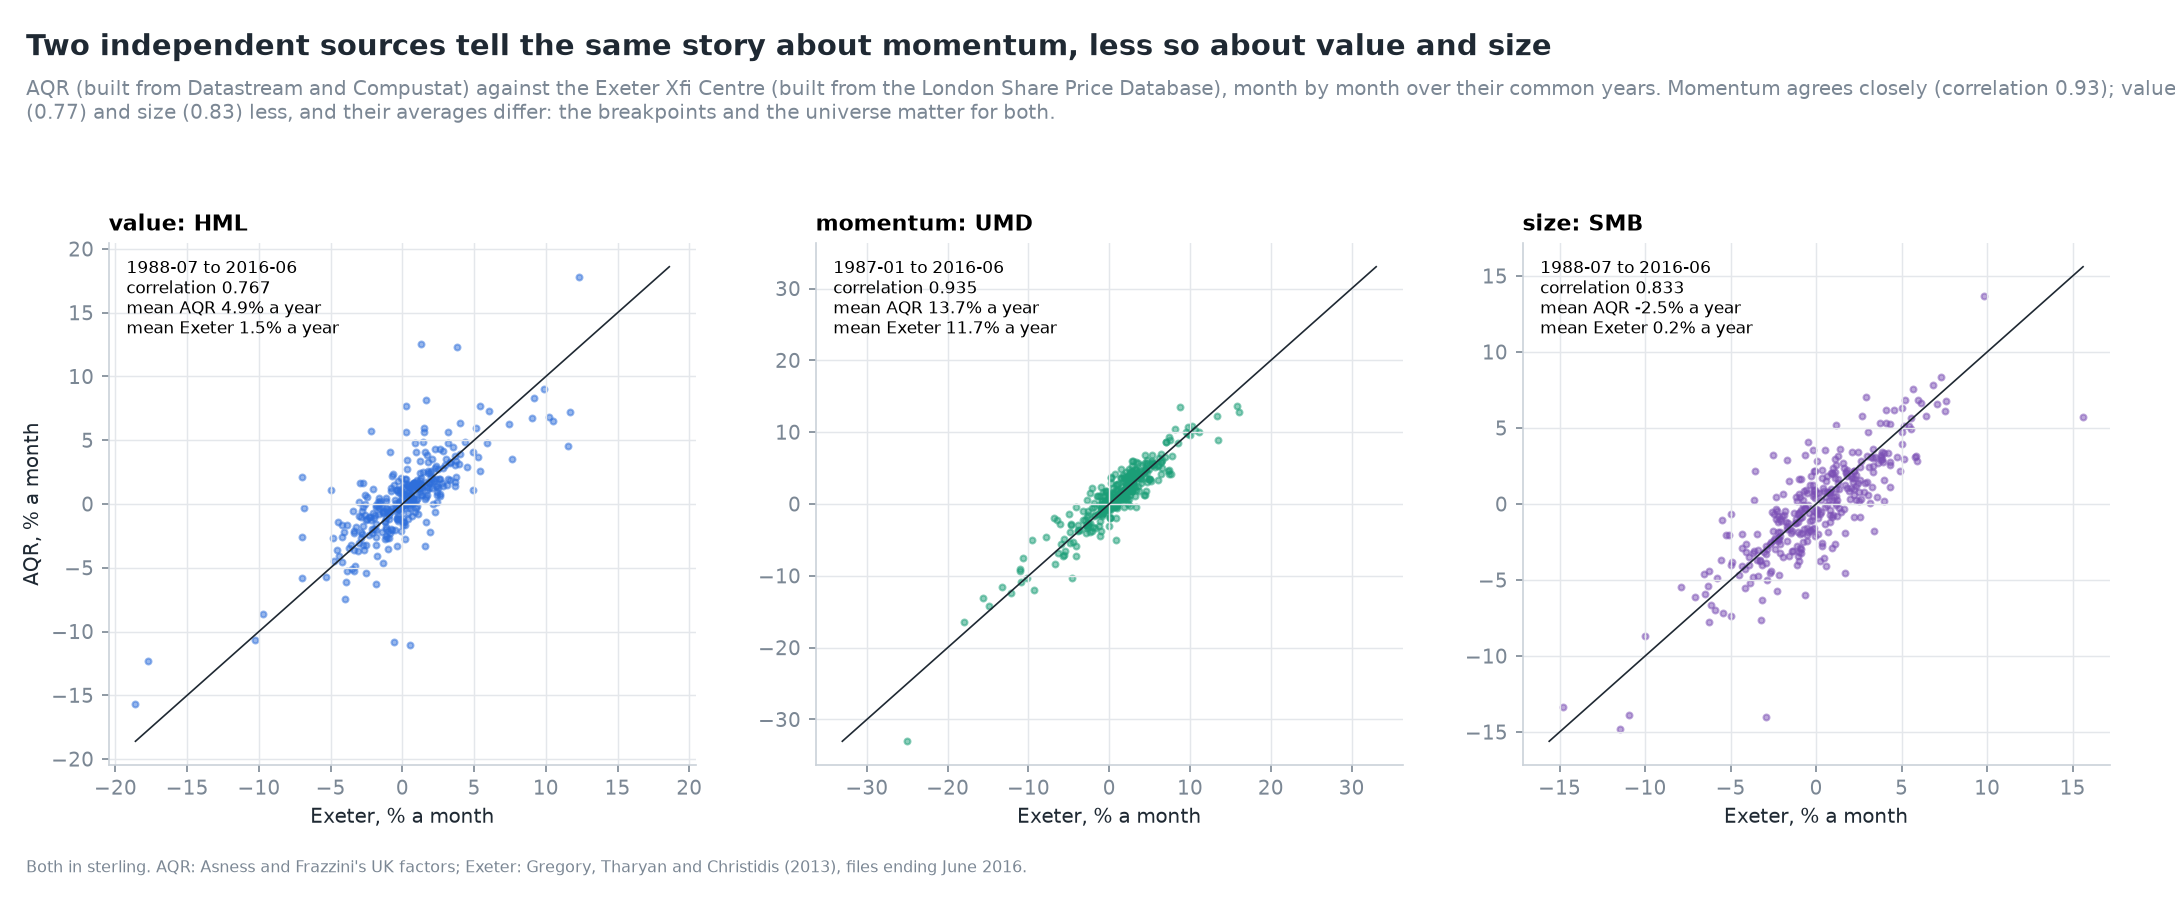
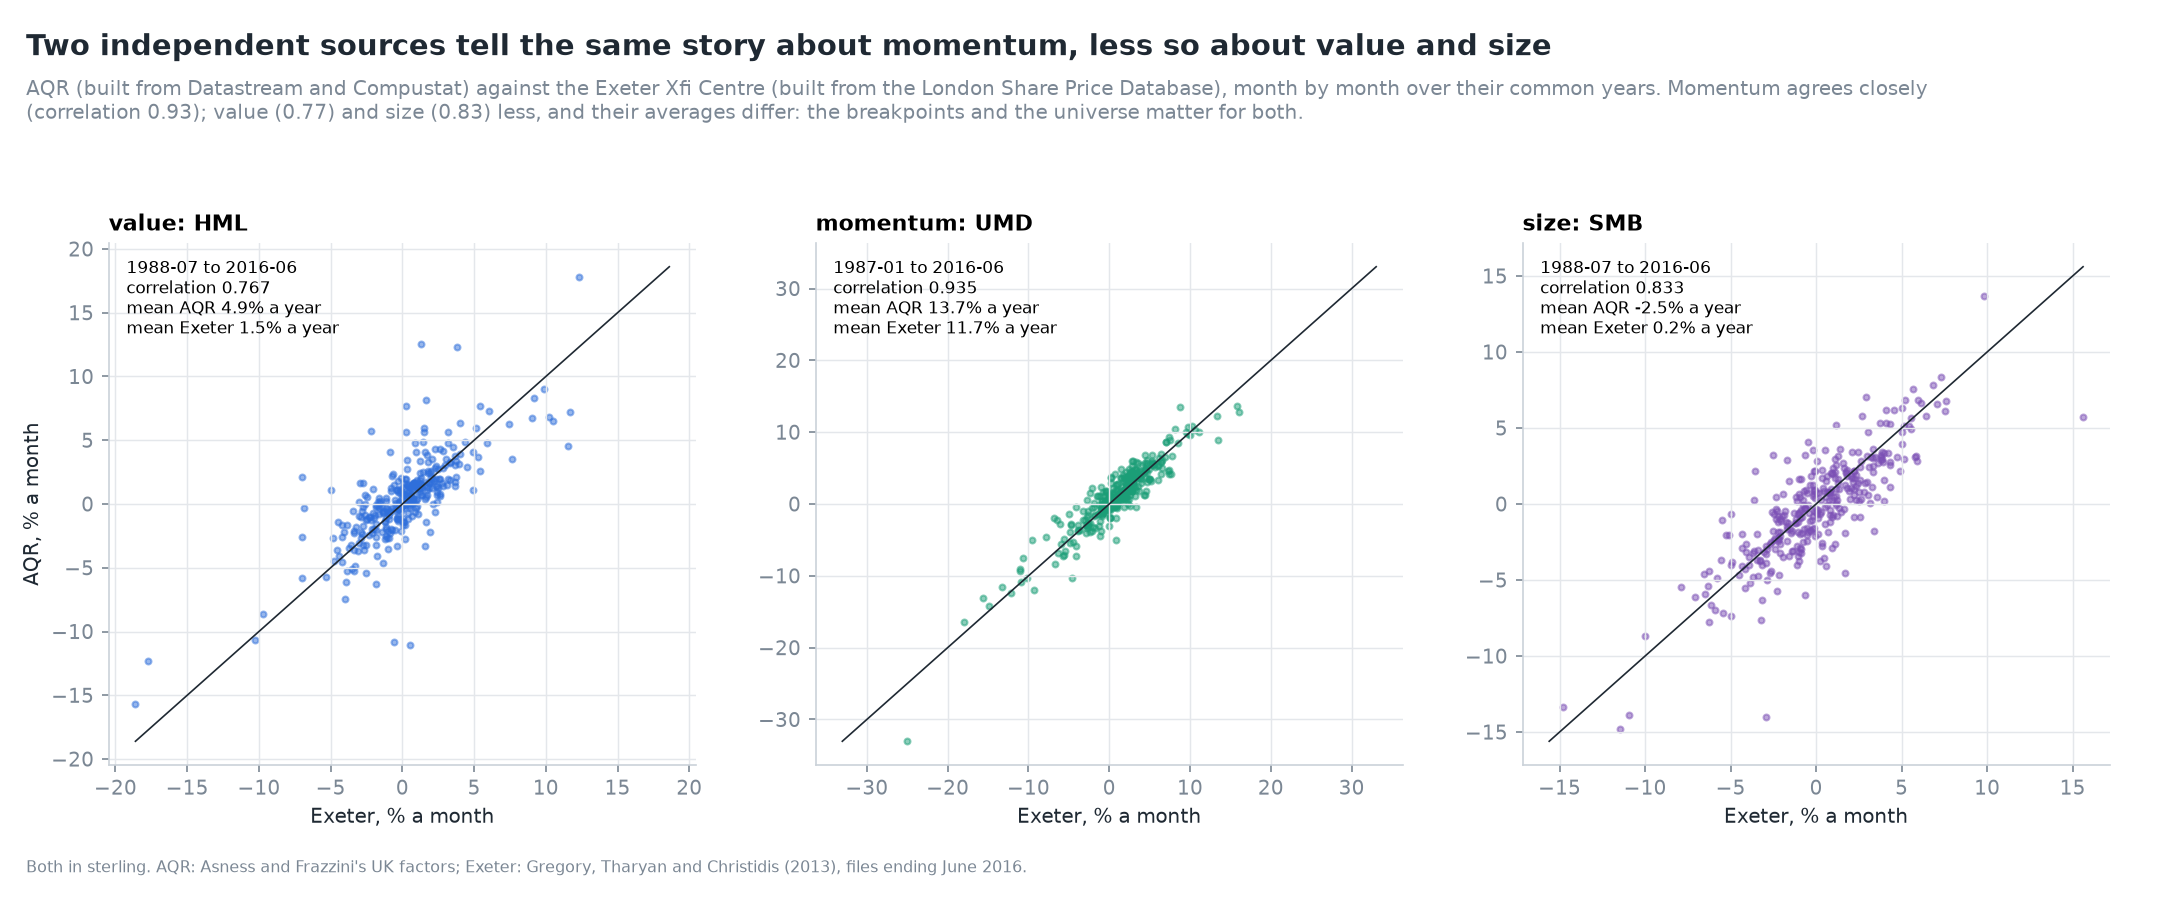
Narrow the subtitle wrap so chart text is not cut off

Changed region(s): [[0.0308, 0.0933, 0.5545, 0.1556], [0.8933, 0.0933, 1.0, 0.1244]]

diff --git a/src/ukfactors/gallery/style.py b/src/ukfactors/gallery/style.py
@@ -66,7 +66,7 @@ def title_block(fig: Figure, title: str, subtitle: str | None = None) -> None:
     height = fig.get_figheight()
     fig.suptitle(title, x=0.012, y=1 - 0.22 / height, ha="left", va="top", fontsize=14, fontweight="bold", color=PALETTE["ink"])
     if subtitle:
-        wrapped = textwrap.fill(subtitle, int(fig.get_figwidth() * 14.5))  # about the characters a line holds
+        wrapped = textwrap.fill(subtitle, int(fig.get_figwidth() * 13.2))  # about the characters a line holds
         fig.text(0.012, 1 - 0.52 / height, wrapped, ha="left", va="top", fontsize=9.5, color=PALETTE["muted"])
 
 
